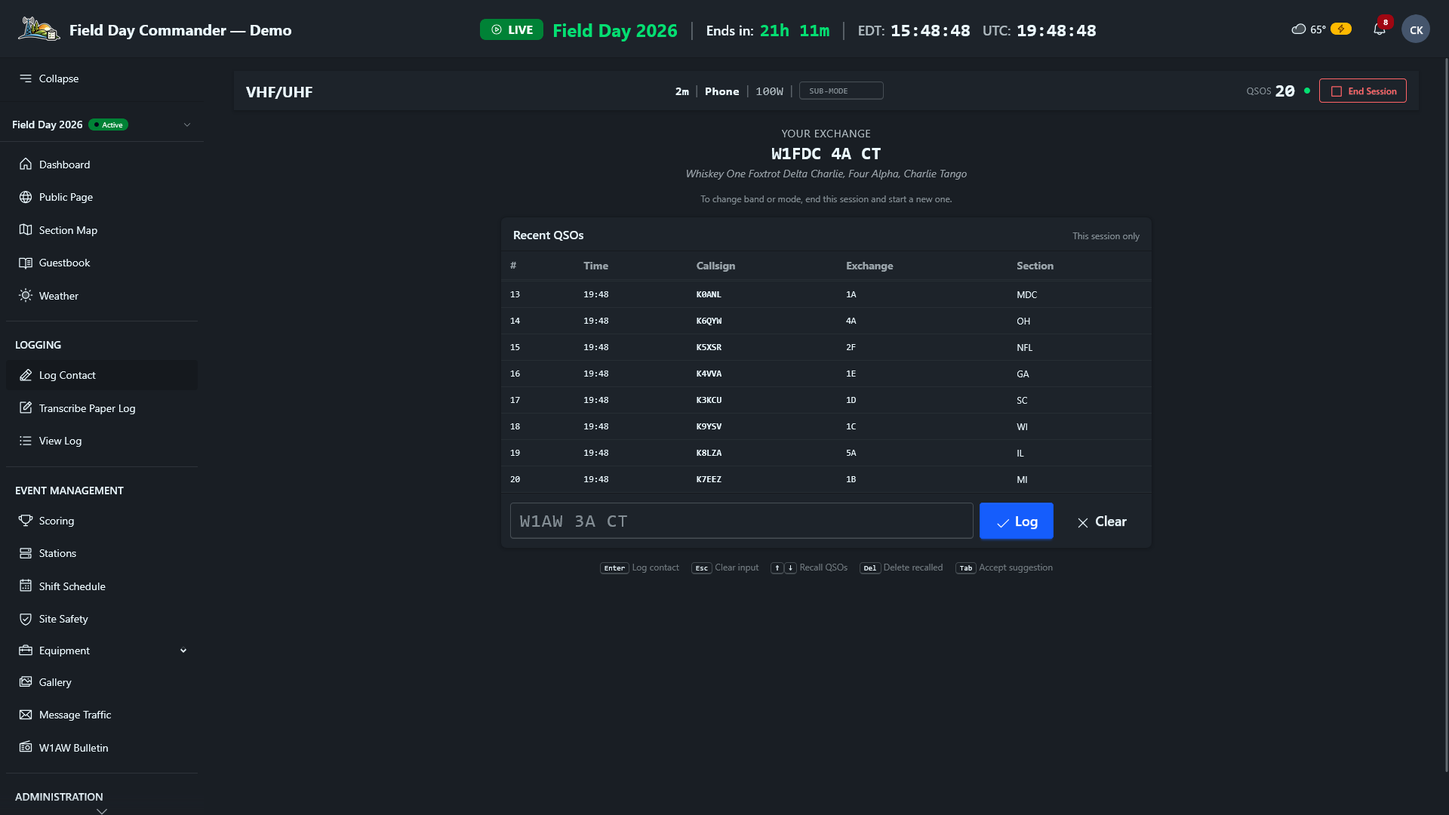
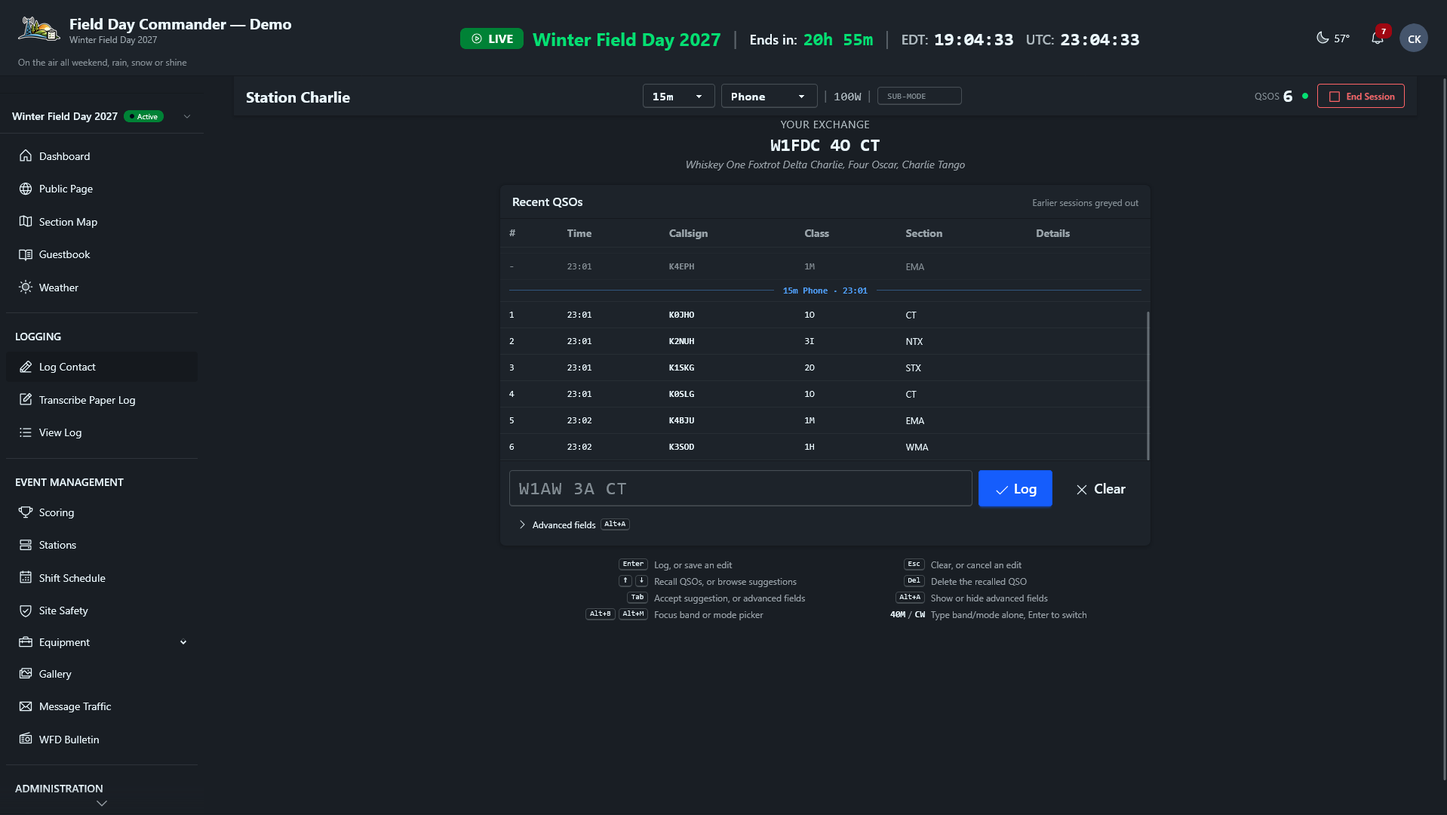
docs: cover band/mode switching and advanced fields, drop screenshot captions
Update the reference, multi-station, GOTA, external loggers and features
pages for the 26.10.13 logging screen: band and mode pickers instead of
ending the session, advanced fields, off-band switching, earlier-session
contacts, and the fields kept from external loggers and exports. Replace
the Log Contact screenshot, and remove figcaptions site-wide.

Claude-Session: https://claude.ai/code/session_01Pm6qp4PJTgecde6eG2aYAF

diff --git a/docs/fd-commander-docs.html b/docs/fd-commander-docs.html
@@ -1073,19 +1073,19 @@
     <p>Operators log contacts under <strong>Logging &gt; Log Contact</strong>. The station selection screen shows every station with its current status, the current operator's callsign, active band and mode, and running QSO count. An available station has a <strong>Select Station</strong> button. A station with an open session but no recent contacts shows as idle with a <strong>Take Over</strong> button, and a busy one shows <strong>In Use</strong>. A station that's been <a href="#stations">marked unavailable</a> shows "Down" with the reason, and its button is disabled. To set up several stations logging into the shared log over your LAN, see the <a href="how-to/multi-station-logging.html">Multi-Station Logging how-to</a>.</p>
 
     <h3>Starting a Session</h3>
-    <p>After selecting a station, you choose the band, mode, and power in watts before the logging interface opens. Band and mode are locked for the duration of the session. To change them you must end the session and start a new one. The rules allow only one transmitter per band and mode at a time, so if another station already has an active session on the same band and mode, <strong>Start Session</strong> won't start a new one and names the station that's using it. GOTA stations are the exception. Once a session is running, the logging header rechecks every 30 seconds and shows a warning if another station has since landed on the same band and mode. For GOTA stations, there's an additional option to mark the session as supervised (GOTA Coach present), which enables the 100-point coach bonus if 10 or more contacts are supervised. On a <a href="#station-mode">station-mode</a> browser, the list is skipped and setup opens for that browser's station.</p>
+    <p>After selecting a station, you choose the band, mode, and power in watts before the logging interface opens. The session bar has band and mode pickers for switching without leaving the logging screen. A switch ends the current session and starts a new one on the same station with the same power. Switching is refused while offline, if the station is unavailable, or if another non-GOTA station already uses that band and mode. GOTA stations are exempt from the conflict check. The rules allow only one transmitter per band and mode at a time, so if another station already has an active session on the same band and mode, <strong>Start Session</strong> won't start a new one and names the station that's using it. GOTA stations are the exception. Once a session is running, the logging header rechecks every 30 seconds and shows a warning if another station has since landed on the same band and mode. For GOTA stations, there's an additional option to mark the session as supervised (GOTA Coach present), which enables the 100-point coach bonus if 10 or more contacts are supervised. On a <a href="#station-mode">station-mode</a> browser, the list is skipped and setup opens for that browser's station.</p>
 
     <h3>Making Contacts</h3>
-    <p>The logging interface shows a sticky bar at the top with the station name, band, mode, power, and a live QSO counter. Next to the mode is an optional <strong>Sub-mode</strong> field for the specific flavor you're running (USB, FT8, RTTY, SSTV, and so on). It stays set between contacts. The entry field accepts the full exchange in one shot (callsign, class, section) with autocomplete suggestions as you type. Hit Enter to log.</p>
+    <p>The logging interface shows a sticky bar at the top with the station name, band, mode, power, and a live QSO counter. Next to the mode is an optional <strong>Sub-mode</strong> field for the specific flavor you're running (USB, FT8, RTTY, SSTV, and so on). It stays set between contacts. The entry field accepts the full exchange in one shot (callsign, class, section) with autocomplete suggestions as you type. Hit Enter to log. Below 1280px wide, the session bar uses two rows, with station, power, QSOs, and <strong>End Session</strong> above the band, mode, and sub-mode controls. <strong>End Session</strong> opens an in-app confirmation dialog. Open <strong>Advanced fields</strong> below the exchange box for <strong>Freq (MHz)</strong>, <strong>RST sent</strong>, <strong>RST rcvd</strong>, <strong>Grid</strong>, <strong>Name</strong>, and <strong>Notes</strong>. Alt+A toggles the panel, and this device remembers the choice. With it open, Tab from the exchange box moves through the fields in that order. Shift+Tab from <strong>Freq (MHz)</strong> returns to the exchange box. Enter logs or saves a recalled edit, and Esc returns to the exchange box. Frequency stays filled between contacts and across a switch if it fits the new band. The other fields clear after each contact. Frequency, reports, grid, and name appear in <strong>Details</strong>, or on the contact card line on phones. Up-arrow recall loads the advanced fields for editing too. A frequency on another band blocks logging and offers a button such as <strong>Switch to 40m</strong>. Enter switches and logs the entry, including its advanced fields. If validation fails on the new band, the entry stays with an error. Esc returns without switching.</p>
 
     <p>Dupe checks run in real time against every contact logged by every station, so you'll see an immediate warning if the callsign has already been worked on the same band and mode. You'll also get a warning if the callsign belongs to one of your own participants (the event callsign, the GOTA callsign, or anyone operating or signed up for a shift), since contacts with your own people don't count. Neither warning blocks the contact. A class from the wrong rulebook does: Field Day events accept classes A through F and Winter Field Day events accept H, I, O, and M, and anything else is rejected with "Class X is not valid for this event." If a contact fails to sync, it appears in a failed contacts dropdown in the header with a retry button.</p>
 
     <p>On a desktop screen, a <strong>Recent QSOs</strong> list appears above the entry field. It shows this session's contacts, oldest at the top, numbered from 1, and scrolls to the newest as you log. Click a row (or arrow to it) to pull that contact back up for editing.</p>
 
-    <p>All contacts go into a shared database, and Laravel Reverb pushes each new one over WebSocket to every connected browser. The scoring page, section map, and dashboard widgets all reflect new contacts instantly.</p>
+    <p>Use Alt+B or Alt+M to focus the band or mode picker, arrow keys to choose, Enter to switch, and Esc to cancel. Mouse or touch selections switch immediately. Typing a band or mode alone in the exchange box and pressing Enter also switches: "40M" or "40", "CW", "PH" or "SSB", "DIG", or a pair such as "20M PH". After a switch, up to 20 recent contacts from the chain of earlier sessions appear greyed out and read-only, under dividers such as "40m Phone · 21:52". The current session divider is highlighted. Earlier contacts cannot be recalled, edited, or deleted here. Use <strong>Logging &gt; View Log</strong> to edit or delete them. Starting fresh after <strong>End Session</strong> or from <strong>Station Select</strong> shows an empty log. Contacts waiting to sync keep their original session when you switch. All contacts go into a shared database, and Laravel Reverb pushes each new one over WebSocket to every connected browser. The scoring page, section map, and dashboard widgets all reflect new contacts instantly.</p>
 
     <h3>GOTA Operator Tracking</h3>
-    <p>On a GOTA station, the logging interface shows additional fields to identify the operator making the contact: search for a registered user by name or callsign, or manually enter a first name, last name, and callsign for unregistered visitors. This attaches the GOTA operator to each contact for reporting purposes. A GOTA contact can't be logged until a GOTA operator is entered, either a linked user or a first and last name. The same rule applies to paper log transcription for the GOTA station. Contacts that reach the GOTA station from an external logger or an ADIF import count as GOTA contacts, but they aren't tied to a GOTA operator. For setting up and scoring the GOTA station, see the <a href="how-to/gota-station.html">GOTA Station how-to</a>.</p>
+    <p>On a GOTA station, the logging interface shows additional fields to identify the operator making the contact: search for a registered user by name or callsign, or manually enter a first name, last name, and callsign for unregistered visitors. This attaches the GOTA operator to each contact for reporting purposes. <strong>GOTA Operator</strong> and the session's <strong>Supervised Session (GOTA Coach present)</strong> setting carry over through a band or mode switch. The operator does not carry over into a fresh session. A GOTA contact can't be logged until a GOTA operator is entered, either a linked user or a first and last name. The same rule applies to paper log transcription for the GOTA station. Contacts that reach the GOTA station from an external logger or an ADIF import count as GOTA contacts, but they aren't tied to a GOTA operator. For setting up and scoring the GOTA station, see the <a href="how-to/gota-station.html">GOTA Station how-to</a>.</p>
 
     <h3>Browsing the Logbook</h3>
     <p>Go to <strong>Logging &gt; View Log</strong> to open the Logbook Browser. Stats at the top show running totals: total QSOs, total points, unique sections worked, QSOs by mode, and QSOs by band. Below that, a full set of filters lets you slice the log by band, mode, station, logger, ARRL section, callsign, time range, duplicate status (all, exclude dupes, dupes only), and whether the contact was transcribed from paper. The contact table shows QSO time (UTC), callsign, band, mode (with the sub-mode, like "Digital · FT8"), class, section, points, station, and the logger who entered it. On Winter Field Day 2027 events, contacts that earn nothing get a red <strong>no credit</strong> badge, and hovering it says why (see <a href="#winter-field-day">Winter Field Day</a>). Users who can edit contacts can select rows and use <strong>Change Logger</strong> or <strong>Delete</strong> on all of them at once. Use the <strong>Export CSV</strong> button to download the filtered log.</p>
@@ -1100,7 +1100,7 @@
     <h2 id="external-loggers">External Logger Integration</h2>
     <p>Field Day Commander can receive contacts from external software in real time over UDP, and it can import ADIF files after the fact. This means operators running N1MM Logger+, digital-mode programs like WSJT-X and fldigi, or any other program that outputs ADIF don't need to double-log their contacts. That software handles the radio side and Field Day Commander handles scoring, deduplication, and Cabrillo export. All of this is optional: stations without external software log directly in Field Day Commander.</p>
 
-    <p>All listener settings are found under <strong>Logging &gt; External Loggers</strong>. Each listener can be enabled or disabled independently, and the UDP port is configurable.</p>
+    <p>Contacts from external loggers keep frequency, sent and received reports, grid, name, and comment when supplied. Frequency, reports, grid, and name appear in <strong>Details</strong>, or on the card line on phones. These fields are exported like browser-logged fields. ADIF-based loggers also preserve other record fields for ADIF export. All listener settings are found under <strong>Logging &gt; External Loggers</strong>. Each listener can be enabled or disabled independently, and the UDP port is configurable.</p>
 
     <div class="callout warning">
       <div class="callout-title">Security Notice</div>
@@ -1154,7 +1154,7 @@
       <li><strong>Step 2: Map Fields.</strong> If the ADIF file contains station identifiers that don't match your configured stations, you'll see them listed under "Unmapped Stations" with a dropdown to assign each one to an event station.</li>
       <li><strong>Step 3: Review &amp; Import.</strong> Every record is shown in a table with its status: New, Merge Candidate, Skipped, or Invalid. Records outside the event time window are flagged as invalid with an explanation. You can skip individual records before importing. A summary at the top shows counts for each category.</li>
     </ul>
-    <p>The import is non-destructive. You review everything before any contacts are written to the database, and invalid records must be resolved (skipped or fixed) before the import can proceed.</p>
+    <p>ADIF import keeps frequency, reports, grid, name, and comment, plus other record fields for ADIF export, including <code>MY_GRIDSQUARE</code>, <code>TX_PWR</code>, <code>QSO_DATE_OFF</code>, <code>TIME_OFF</code>, and <code>APP_</code> fields. Merging into an existing contact fills only empty fields. The import is non-destructive. You review everything before any contacts are written to the database, and invalid records must be resolved (skipped or fixed) before the import can proceed.</p>
 
     <p>Every listener and the import record the ADIF sub-mode (FT8, USB, and so on) along with the mode, and they apply the event's rulebook the same way live logging does. On a Winter Field Day 2027 event that means WSJT-mode and satellite contacts come in with no credit.</p>
 
@@ -1400,10 +1400,10 @@
     <p>When the event wraps up, go to <strong>Reports</strong> in the Administration section of the sidebar. Event managers and admins (anyone with view-reports) can open it. The <strong>Export &amp; Download</strong> cards depend on the event type: every event gets Cabrillo Log, ADIF Log, and Logbook CSV, plus Submission Sheet for Field Day or Winter Field Day Summary (PDF) for Winter Field Day. Duplicates and no-credit contacts are left out of the Cabrillo and ADIF files, and contacts you transcribed from paper are included. For a step-by-step walkthrough, see <a href="how-to/submit-field-day-entry.html">Submit Your Field Day Entry</a>.</p>
 
     <h3>Cabrillo Log</h3>
-    <p>Field Day Commander pulls together every QSO across all stations and writes a Cabrillo file in the format your event needs. For Field Day, that's the ARRL format with your callsign, class, section, category lines, claimed score, and every contact, saved as <code>CALLSIGN-YEAR-field-day.log</code> and ready to upload to the <a href="https://field-day.arrl.org/" target="_blank">ARRL Field Day submission page</a>. For Winter Field Day, it's the WFDA format (contest WFD, your location, power category, operators, and exchange), saved as <code>CALLSIGN.log</code> as the WFDA asks, for upload at <a href="https://winterfieldday.org/" target="_blank">winterfieldday.org</a>. Bands above 1.2 GHz use the Cabrillo GHz designators (2.3G, 10G, and so on).</p>
+    <p>Field Day Commander pulls together every QSO across all stations and writes a Cabrillo file in the format your event needs. For Field Day, that's the ARRL format with your callsign, class, section, category lines, claimed score, and every contact, saved as <code>CALLSIGN-YEAR-field-day.log</code> and ready to upload to the <a href="https://field-day.arrl.org/" target="_blank">ARRL Field Day submission page</a>. For Winter Field Day, it's the WFDA format (contest WFD, your location, power category, operators, and exchange), saved as <code>CALLSIGN.log</code> as the WFDA asks, for upload at <a href="https://winterfieldday.org/" target="_blank">winterfieldday.org</a>. Below 1 GHz, QSO lines use the logged frequency in kHz when available, otherwise the band frequency. Bands above 1.2 GHz use the Cabrillo GHz designators (2.3G, 10G, and so on).</p>
 
     <h3>ADIF Log</h3>
-    <p>Downloads an ADIF 3.1.4 file (<code>CALLSIGN.adi</code>) of every credited, non-duplicate contact, with band, mode, sub-mode, class, section, station callsign, and operator. Use it to import the log into other logging software.</p>
+    <p>Downloads an ADIF 3.1.4 file (<code>CALLSIGN.adi</code>) of every credited, non-duplicate contact, with band, mode, sub-mode, class, section, station callsign, and operator. When logged, frequency, reports, grid, name, and notes are included as <code>FREQ</code>, <code>RST_SENT</code>, <code>RST_RCVD</code>, <code>GRIDSQUARE</code>, <code>NAME</code>, and <code>COMMENT</code>. Other preserved ADIF fields are included too. Values held in Field Day Commander take precedence over the original record. Reports such as "5NN" that do not fit the app's fields are preserved for export. Use it to import the log into other logging software.</p>
 
     <h3>ARRL Submission Sheet</h3>
     <p>Field Day events only. Downloads a PDF formatted to the official ARRL Field Day submission sheet. It has your entry information, power sources, bonus claims, claimed score, and a band and mode breakdown, plus a GOTA page if you ran a GOTA station. If you saved a W1AW bulletin copy, it gets its own page. Useful as a backup record even if you submit electronically.</p>

diff --git a/docs/fd-commander-features.html b/docs/fd-commander-features.html
@@ -259,7 +259,7 @@
           <li><span class="check">&#10003;</span> Event readiness dashboard to see what's done and what's left at a glance</li>
         </ul>
       </div>
-      <figure class="screenshot"><a href="screenshots/setup-checklist-dark.png"><img src="screenshots/setup-checklist-dark.png" alt="Event setup checklist showing readiness tasks" loading="lazy"></a><figcaption>Review event setup tasks before the first contact.</figcaption></figure>
+      <figure class="screenshot"><a href="screenshots/setup-checklist-dark.png"><img src="screenshots/setup-checklist-dark.png" alt="Event setup checklist showing readiness tasks" loading="lazy"></a></figure>
     </div>
 
     <div class="feature-deep reverse" id="equipment">
@@ -274,7 +274,7 @@
           <li><span class="check">&#10003;</span> Assign gear to specific stations before the event</li>
         </ul>
       </div>
-      <figure class="screenshot"><a href="screenshots/equipment-dashboard-dark.png"><img src="screenshots/equipment-dashboard-dark.png" alt="Equipment dashboard showing event gear" loading="lazy"></a><figcaption>Keep equipment planning alongside station and volunteer planning.</figcaption></figure>
+      <figure class="screenshot"><a href="screenshots/equipment-dashboard-dark.png"><img src="screenshots/equipment-dashboard-dark.png" alt="Equipment dashboard showing event gear" loading="lazy"></a></figure>
     </div>
 
     <div class="feature-deep" id="scheduling">
@@ -291,7 +291,7 @@
           <li><span class="check">&#10003;</span> Mark everyone on an ended shift as worked in one click, for accurate volunteer hours</li>
         </ul>
       </div>
-      <figure class="screenshot"><a href="screenshots/shift-dashboard-dark.png"><img src="screenshots/shift-dashboard-dark.png" alt="Volunteer shift dashboard with coverage timeline" loading="lazy"></a><figcaption>Spot coverage gaps while there is still time to fill them.</figcaption></figure>
+      <figure class="screenshot"><a href="screenshots/shift-dashboard-dark.png"><img src="screenshots/shift-dashboard-dark.png" alt="Volunteer shift dashboard with coverage timeline" loading="lazy"></a></figure>
     </div>
 </section>
 
@@ -305,11 +305,12 @@
           <li><span class="check">&#10003;</span> Dupes (same call, band, and mode) flagged instantly across every station</li>
           <li><span class="check">&#10003;</span> Section and exchange validation catches typos before they're saved</li>
           <li><span class="check">&#10003;</span> One station per band and mode, enforced when a session starts, plus a warning if someone works one of your own operators</li>
+          <li><span class="check">&#10003;</span> Change band or mode from the logging screen, with station conflict checks</li>
           <li><span class="check">&#10003;</span> Cabrillo export for ARRL Field Day or Winter Field Day, plus an ADIF log you can load into the club&#39;s logging software</li>
-          <li><span class="check">&#10003;</span> Single-field entry flow designed for speed: type the exchange, hit Enter, done</li>
+          <li><span class="check">&#10003;</span> Type the exchange and hit Enter, with optional advanced fields for frequency, reports, grid, name, and notes</li>
         </ul>
       </div>
-      <figure class="screenshot"><a href="screenshots/log-contact-dark.png"><img src="screenshots/log-contact-dark.png" alt="Contact logging screen with exchange entry and recent contacts" loading="lazy"></a><figcaption>Operators log into the same event from their station browsers.</figcaption></figure>
+      <figure class="screenshot"><a href="screenshots/log-contact-dark.png"><img src="screenshots/log-contact-dark.png" alt="Contact logging screen with exchange entry and recent contacts" loading="lazy"></a></figure>
     </div>
 
     <div class="feature-deep" id="station-mode">
@@ -451,7 +452,7 @@
 </section>
 
 <section class="feature-group" aria-labelledby="progress"><header class="feature-group-heading"><h2 id="progress">Follow the progress</h2><p>Keep the whole team informed, from contacts and traffic to the live score.</p></header>
-<div class="feature-deep reverse" id="big-screen"><div class="feature-deep-text"><span class="feature-tag teal">Event dashboard</span><h3>A shared view of the club’s progress</h3><p>Put the dashboard on a large screen so operators, volunteers, and visitors can follow the event as contacts come in.</p><ul class="feature-bullets"><li><span class="check">&#10003;</span> Follow the live score and QSO rate</li><li><span class="check">&#10003;</span> See sections worked and band activity</li><li><span class="check">&#10003;</span> Keep time remaining in view</li></ul></div><figure class="screenshot"><a href="screenshots/tv_dashboard.jpg"><img src="screenshots/tv_dashboard.jpg" alt="Wall-mounted TV showing score, QSO rate, sections worked, and event time remaining" loading="lazy"></a><figcaption>The event dashboard displayed on a TV at the site.</figcaption></figure></div>
+<div class="feature-deep reverse" id="big-screen"><div class="feature-deep-text"><span class="feature-tag teal">Event dashboard</span><h3>A shared view of the club’s progress</h3><p>Put the dashboard on a large screen so operators, volunteers, and visitors can follow the event as contacts come in.</p><ul class="feature-bullets"><li><span class="check">&#10003;</span> Follow the live score and QSO rate</li><li><span class="check">&#10003;</span> See sections worked and band activity</li><li><span class="check">&#10003;</span> Keep time remaining in view</li></ul></div><figure class="screenshot"><a href="screenshots/tv_dashboard.jpg"><img src="screenshots/tv_dashboard.jpg" alt="Wall-mounted TV showing score, QSO rate, sections worked, and event time remaining" loading="lazy"></a></figure></div>
 
     <div class="feature-deep" id="section-map">
       <div class="feature-deep-text">
@@ -467,10 +468,10 @@
           <li><span class="check">&#10003;</span> Updates in real time as contacts are logged</li>
         </ul>
       </div>
-      <figure class="screenshot"><a href="screenshots/section-map-dark.png"><img src="screenshots/section-map-dark.png" alt="Section map showing worked sections" loading="lazy"></a><figcaption>Explore the sections worked across your shared log.</figcaption></figure>
+      <figure class="screenshot"><a href="screenshots/section-map-dark.png"><img src="screenshots/section-map-dark.png" alt="Section map showing worked sections" loading="lazy"></a></figure>
     </div>
 
-<div class="feature-deep reverse" id="message-traffic"><div class="feature-deep-text"><span class="feature-tag teal">Traffic &amp; bulletins</span><h3>NTS messages and bulletin records</h3><p>Keep message traffic and supporting records alongside the event log, so the team can follow progress and review bonus claims.</p><ul class="feature-bullets"><li><span class="check">&#10003;</span> Record and follow NTS radiograms</li><li><span class="check">&#10003;</span> Track the Section Manager or Section Emergency Coordinator message separately</li><li><span class="check">&#10003;</span> Save your over-the-air W1AW bulletin copy for submission records</li></ul><p><a href="how-to/bonuses-objectives.html">Explore bonuses and objectives &rarr;</a></p></div><figure class="screenshot"><a href="screenshots/message-traffic-dark.png"><img src="screenshots/message-traffic-dark.png" alt="Message traffic screen for NTS radiograms and message-related bonuses" loading="lazy"></a><figcaption>Keep traffic records available to the people reviewing bonus claims.</figcaption></figure></div>
+<div class="feature-deep reverse" id="message-traffic"><div class="feature-deep-text"><span class="feature-tag teal">Traffic &amp; bulletins</span><h3>NTS messages and bulletin records</h3><p>Keep message traffic and supporting records alongside the event log, so the team can follow progress and review bonus claims.</p><ul class="feature-bullets"><li><span class="check">&#10003;</span> Record and follow NTS radiograms</li><li><span class="check">&#10003;</span> Track the Section Manager or Section Emergency Coordinator message separately</li><li><span class="check">&#10003;</span> Save your over-the-air W1AW bulletin copy for submission records</li></ul><p><a href="how-to/bonuses-objectives.html">Explore bonuses and objectives &rarr;</a></p></div><figure class="screenshot"><a href="screenshots/message-traffic-dark.png"><img src="screenshots/message-traffic-dark.png" alt="Message traffic screen for NTS radiograms and message-related bonuses" loading="lazy"></a></figure></div>
 
     <div class="feature-deep" id="scoring">
       <div class="feature-deep-text">
@@ -485,7 +486,7 @@
           <li><span class="check">&#10003;</span> Everyone sees the same live score, on every screen</li>
         </ul>
       </div>
-      <figure class="screenshot"><a href="screenshots/scoring-dark.png"><img src="screenshots/scoring-dark.png" alt="Event scoring screen with score and bonus breakdowns" loading="lazy"></a><figcaption>Review the score and the claims that contribute to it.</figcaption></figure>
+      <figure class="screenshot"><a href="screenshots/scoring-dark.png"><img src="screenshots/scoring-dark.png" alt="Event scoring screen with score and bonus breakdowns" loading="lazy"></a></figure>
     </div>
 
     <div class="feature-deep reverse" id="guestbook">
@@ -612,7 +613,7 @@
 </section>
 
 <section class="feature-group" aria-labelledby="submit"><header class="feature-group-heading"><h2 id="submit">Finish and submit</h2><p>Review the entry and keep a record of the weekend’s work.</p></header>
-<div class="feature-deep reverse" id="entry"><div class="feature-deep-text"><span class="feature-tag teal">Reports &amp; exports</span><h3>Prepare the entry from your shared log</h3><p>Review the score and bonus claims together, then download the records your club needs to prepare its entry.</p><ul class="feature-bullets"><li><span class="check">&#10003;</span> Export Cabrillo for the event entry</li><li><span class="check">&#10003;</span> Export ADIF for the club log or CSV for analysis</li><li><span class="check">&#10003;</span> Download submission summaries, including the Winter Field Day Event Summary PDF</li><li><span class="check">&#10003;</span> Keep event photos and supporting records for the club’s review</li></ul><p><a href="how-to/submit-field-day-entry.html">Follow the Field Day submission walkthrough &rarr;</a></p></div><figure class="screenshot"><a href="screenshots/manual-bonus-claims-dark.png"><img src="screenshots/manual-bonus-claims-dark.png" alt="Manual bonus claims screen for reviewing event claims" loading="lazy"></a><figcaption>Review claims and supporting records before preparing the entry.</figcaption></figure></div>
+<div class="feature-deep reverse" id="entry"><div class="feature-deep-text"><span class="feature-tag teal">Reports &amp; exports</span><h3>Prepare the entry from your shared log</h3><p>Review the score and bonus claims together, then download the records your club needs to prepare its entry.</p><ul class="feature-bullets"><li><span class="check">&#10003;</span> Export Cabrillo for the event entry</li><li><span class="check">&#10003;</span> Export ADIF for the club log or CSV for analysis</li><li><span class="check">&#10003;</span> Download submission summaries, including the Winter Field Day Event Summary PDF</li><li><span class="check">&#10003;</span> Keep event photos and supporting records for the club’s review</li></ul><p><a href="how-to/submit-field-day-entry.html">Follow the Field Day submission walkthrough &rarr;</a></p></div><figure class="screenshot"><a href="screenshots/manual-bonus-claims-dark.png"><img src="screenshots/manual-bonus-claims-dark.png" alt="Manual bonus claims screen for reviewing event claims" loading="lazy"></a></figure></div>
 
     <div class="feature-deep" id="photos">
       <div class="feature-deep-text">

diff --git a/docs/how-to/multi-station-logging.html b/docs/how-to/multi-station-logging.html
@@ -245,7 +245,7 @@
         <p><span class="step-number">4</span> When your turn is over, click the red <strong>Sign Out</strong> button in the top-right corner. The callsign screen comes back up for the next operator.</p>
       </div>
 
-      <p>The band and mode stay fixed for the session. To QSY, end the session, type your callsign again, and pick the new band or mode.</p>
+      <p>To QSY, use the band and mode pickers in the session bar. You should see the new band and mode after the switch, on the same station and power. Alt+B or Alt+M focuses a picker. Choose with the arrow keys, press Enter to switch, or Esc to cancel. You can also type "40M", "40", "CW", "PH", "SSB", "DIG", or "20M PH" alone in the exchange box and press Enter. Reconnect before switching if you are offline. An unavailable station or a band and mode already used by another non-GOTA station will block the switch. GOTA stations are exempt from that conflict check.</p>
 
       <p>If an operator walks away without ending their session, the idle timeout will end it for them. <a href="station-mode.html">Set Up Station Mode</a> explains how it works.</p>
 
@@ -260,17 +260,17 @@
       <p>Type the whole exchange into the entry field, separated by spaces, like <code>W1AW 3A CT</code>, and press Enter or click <strong>Log</strong>. The exchange is checked before it's logged, so a bad section or a class from the wrong event will show an error instead of going into the log.</p>
 
       <figure class="screenshot">
-        <a href="../screenshots/log-contact-dark.png"><img src="../screenshots/log-contact-dark.png" alt="The Field Day Commander logging screen for the VHF/UHF station on 2m Phone at 100 W, showing 20 QSOs, the club's exchange W1FDC 4A CT with phonetics, a numbered Recent QSOs list of contacts 13 through 20, the exchange entry field with Log and Clear buttons, and keyboard hints for Enter, Esc, the arrow keys, Del, and Tab" loading="lazy" width="1920" height="1080"></a>
-        <figcaption>A session on the VHF/UHF station. The entry field takes the whole exchange at once, and the hints underneath list the keyboard shortcuts.</figcaption>
+        <a href="../screenshots/log-contact-dark.png"><img src="../screenshots/log-contact-dark.png" alt="Winter Field Day 2027 logging screen for Station Charlie on 15m Phone at 100W, showing six QSOs, the exchange W1FDC 4O CT with phonetics, a greyed earlier contact above the 15m Phone session divider, six numbered contacts below it, the exchange entry field with Log and Clear buttons, a collapsed Advanced fields toggle, and keyboard hints" loading="lazy" width="1918" height="1080"></a>
       </figure>
 
       <p>A few things on this screen make a long run easier:</p>
 
       <ul>
         <li><strong>Your Exchange</strong> at the top shows what to send, spelled out phonetically for phone.</li>
-        <li><strong>Sub-mode</strong>, next to the power, is optional. Type what you're running, such as USB, FM, or FT8, and it stays set between contacts.</li>
+        <li><strong>Sub-mode</strong>, beside the band and mode pickers, is optional. Type what you're running, such as USB, FM, or FT8, and it stays set between contacts.</li>
+        <li>Open <strong>Advanced fields</strong> below the exchange box, or press Alt+A, to enter <strong>Freq (MHz)</strong>, <strong>RST sent</strong>, <strong>RST rcvd</strong>, <strong>Grid</strong>, <strong>Name</strong>, and <strong>Notes</strong>. Tab moves through the fields, Enter logs, and Esc returns to the exchange box. The panel remembers whether you left it open on this device. Frequency stays filled between contacts and through a switch if it fits the new band. The other fields clear. You should see frequency, reports, grid, and name in <strong>Details</strong>, or on the card line on a phone. If the frequency is on another band, logging stops and offers a button such as <strong>Switch to 40m</strong>. Press Enter to switch and log, or Esc to go back.</li>
         <li><strong>Suggestions</strong> appear after two characters, listing callsigns your club has already worked on other bands or modes, with their exchange. Arrow down to one and press Tab to fill it in.</li>
-        <li><strong>Recent QSOs</strong>, on a wider screen, lists this session's contacts. To fix one, press the up arrow in an empty entry field (or click the row), then save, delete, or cancel.</li>
+        <li><strong>Recent QSOs</strong>, on a wider screen, lists this session's contacts. After a band or mode switch, up to 20 contacts from earlier sessions in the switch chain appear greyed out under band, mode, and time dividers. Those contacts are read-only here. Open <strong>Logging &gt; View Log</strong> to edit or delete them. To fix a contact in the current session, press the up arrow in an empty entry field (or click the row), then save, delete, or cancel. Recall loads its advanced fields too.</li>
       </ul>
 
       <h2>How Dupe Checking Works Across Stations</h2>

diff --git a/docs/how-to/first-event.html b/docs/how-to/first-event.html
@@ -238,7 +238,6 @@
 
       <figure class="screenshot">
         <a href="../screenshots/no-active-event-dark.png"><img src="../screenshots/no-active-event-dark.png" alt="The Field Day Commander dashboard with no event yet, showing No Active Event and a Create Event button" loading="lazy" width="1920" height="1080"></a>
-        <figcaption>Right after setup, the dashboard has no event yet. Start with Create Event.</figcaption>
       </figure>
 
       <h3>Event Information</h3>
@@ -320,7 +319,6 @@
 
       <figure class="screenshot">
         <a href="../screenshots/equipment-dashboard-dark.png"><img src="../screenshots/equipment-dashboard-dark.png" alt="The Equipment Dashboard showing 30 items: 2 committed, 28 delivered, none returned or with issues, with each item's owner, status, and assigned station" loading="lazy" width="1920" height="1080"></a>
-        <figcaption>The Equipment Dashboard during an event. Once gear is delivered, you can see which station it went to.</figcaption>
       </figure>
 
       <div class="callout info">
@@ -386,7 +384,6 @@
 
       <figure class="screenshot">
         <a href="../screenshots/shift-dashboard-dark.png"><img src="../screenshots/shift-dashboard-dark.png" alt="Field Day Commander Shift Dashboard with a timeline of shifts for each role across Saturday and Sunday, a 73% coverage gauge with filled and open slot counts, and a Coverage Gaps list showing two Operator shifts" loading="lazy" width="1920" height="1080"></a>
-        <figcaption>The Shift Dashboard. Coverage Gaps lists the shifts that still need people, like the Saturday night Operator slots here.</figcaption>
       </figure>
 
       <h2>Review the Safety Checklist</h2>
@@ -395,7 +392,6 @@
 
       <figure class="screenshot">
         <a href="../screenshots/site-safety-checklist-dark.png"><img src="../screenshots/site-safety-checklist-dark.png" alt="The Site Safety Checklist for a Class A event, 9 of 15 items complete, with checked items struck through and marked with who completed them and when" loading="lazy" width="1920" height="1080"></a>
-        <figcaption>A Class A checklist partway through setup. Each checked item records who completed it and when.</figcaption>
       </figure>
 
       <p>Only people assigned to a <strong>Safety Officer</strong> or <strong>Site Responsibilities</strong> shift can check items off, so make sure that shift exists and has a name on it. Everyone else can read the list.</p>
@@ -443,7 +439,6 @@
 
       <figure class="screenshot">
         <a href="../screenshots/setup-checklist-dark.png"><img src="../screenshots/setup-checklist-dark.png" alt="The dashboard for an upcoming Field Day event, showing a countdown and the Setup Checklist with Event configuration created checked and the other four items still to set up" loading="lazy" width="1920" height="1080"></a>
-        <figcaption>A new event's dashboard with one of five items done.</figcaption>
       </figure>
 
       <p>Items you haven't finished have a <strong>Set Up</strong> button that takes you to the page where you do it. Finished items switch to <strong>Review</strong>.</p>

diff --git a/docs/how-to/gota-station.html b/docs/how-to/gota-station.html
@@ -224,7 +224,7 @@
 
       <p>Under <strong>GOTA Station Options</strong>, turn on <strong>Supervised Session (GOTA Coach present)</strong> when a coach is supervising, then click <strong>Start Session</strong>. Only contacts from supervised sessions count toward the coach bonus.</p>
 
-      <p>You can't change this setting once the session starts. If a coach arrives partway through, end the session and start a new one with the toggle on.</p>
+      <p>Changing band or mode with the session bar pickers keeps this setting. You can't change it once the session starts. If a coach arrives partway through, end the session and start a new one with the toggle on.</p>
 
       <h2>Step 5: Enter Each GOTA Operator</h2>
 
@@ -235,7 +235,7 @@
         <li><strong>For a visitor</strong>, fill in <strong>First Name</strong> and <strong>Last Name</strong>, plus <strong>Callsign (optional)</strong> if they have one.</li>
       </ul>
 
-      <p>Enter the GOTA operator before they make their first contact. Field Day Commander won't log a GOTA contact with the panel empty. You'll see "Enter the GOTA operator in the GOTA Operator panel before logging." Each contact is credited to whoever is in the panel when it's logged, not to the coach. The operator stays set from one contact to the next. When someone new sits down, click <strong>Change</strong> next to a linked member, or type over the names.</p>
+      <p>Enter the GOTA operator before they make their first contact. Field Day Commander won't log a GOTA contact with the panel empty. You'll see "Enter the GOTA operator in the GOTA Operator panel before logging." Each contact is credited to whoever is in the panel when it's logged, not to the coach. The operator stays set from one contact to the next and through a band or mode switch using the session bar. After switching, you should still see the same operator in the panel. A fresh session does not carry the operator over. When someone new sits down, click <strong>Change</strong> next to a linked member, or type over the names.</p>
 
       <p>The names are worth getting right. The <strong>Submission Sheet</strong> on the Reports page has a GOTA page that lists each GOTA operator with their contacts by mode. A linked member whose profile is marked <strong>Youth (age 18 or younger)</strong> will also count toward the youth participation bonus.</p>
 

diff --git a/docs/index.html b/docs/index.html
@@ -556,7 +556,6 @@
 
     <figure class="screenshot hero-shot">
       <a href="screenshots/dashboard-dark.png"><img src="screenshots/dashboard-dark.png" alt="Field Day Commander dashboard during Field Day: total score 898, 52.5 QSOs per hour, 40 of 86 sections worked, a time-remaining countdown, and a chart of QSOs per band" width="1920" height="1080"></a>
-      <figcaption>One shared view of your club&#39;s effort, updated as every station logs contacts.</figcaption>
     </figure>
   </div>
 </section>
@@ -616,8 +615,7 @@
   <div class="container">
     <div class="big-screen-grid">
       <figure class="screenshot">
-        <a href="screenshots/log-contact-dark.png"><img src="screenshots/log-contact-dark.png" alt="Field Day Commander contact logging screen with exchange entry and recent contacts" width="1920" height="1080" loading="lazy"></a>
-        <figcaption>Log in the browser, with exchange validation and dupe checks across stations.</figcaption>
+        <a href="screenshots/log-contact-dark.png"><img src="screenshots/log-contact-dark.png" alt="Field Day Commander contact logging screen with exchange entry and recent contacts" width="1918" height="1080" loading="lazy"></a>
       </figure>
       <div>
         <div class="section-label rail-label">For the Operator</div>
@@ -656,7 +654,6 @@
         <p class="rail-subline">Keep the work beyond QSOs visible: radiograms, visitor sign-ins, GOTA activity, and bonus claims. See what&#39;s been earned and what still needs attention before the event ends.</p>
         <figure class="screenshot">
           <a href="screenshots/message-traffic-dark.png"><img src="screenshots/message-traffic-dark.png" alt="Field Day Commander Message Traffic screen for tracking NTS radiograms and message-related bonuses" width="1920" height="1080" loading="lazy"></a>
-          <figcaption>Keep message traffic and its contribution to your Field Day score together.</figcaption>
         </figure>
       </div>
       <ul class="rail-list" role="list">

diff --git a/docs/how-to/bonuses-objectives.html b/docs/how-to/bonuses-objectives.html
@@ -257,7 +257,6 @@
 
       <figure class="screenshot">
         <a href="../screenshots/events-list-view-details-dark.png"><img src="../screenshots/events-list-view-details-dark.png" alt="Field Day Commander Events page with the Actions menu open on Field Day 2026, showing View Details, Edit, Clone Event, and Delete" loading="lazy" width="1920" height="1080"></a>
-        <figcaption>The Actions menu on the Events page. View Details opens the event page with the claims card.</figcaption>
       </figure>
 
       <div class="step-box">
@@ -266,7 +265,6 @@
 
       <figure class="screenshot">
         <a href="../screenshots/manual-bonus-claims-dark.png"><img src="../screenshots/manual-bonus-claims-dark.png" alt="Manual Bonus Claims card on the event page, with checked bonuses showing their points and unchecked bonuses each showing a Notes box" loading="lazy" width="1920" height="1080"></a>
-        <figcaption>The Manual Bonus Claims card. Claimed bonuses show their points, and the rest each have a box for notes.</figcaption>
       </figure>
 
       <div class="step-box">
@@ -288,7 +286,6 @@
 
       <figure class="screenshot">
         <a href="../screenshots/scoring-dark.png"><img src="../screenshots/scoring-dark.png" alt="Field Day Commander Scoring page with QSO points, power multiplier, and a Bonus Points column listing each bonus with its status" loading="lazy" width="1920" height="1080"></a>
-        <figcaption>The Bonus Points column on the Scoring page. Anything still marked Unclaimed is worth a look.</figcaption>
       </figure>
 
       <p>Keep an eye on <strong>Corrections &amp; Notices</strong> at the bottom of the page too. It flags things like GOTA contacts logged without a GOTA station configured.</p>

diff --git a/docs/how-to/external-loggers.html b/docs/how-to/external-loggers.html
@@ -262,7 +262,7 @@
 
       <div class="badge-advanced">Logging &middot; Optional</div>
 
-      <p>Your operators already know their favorite programs, and there's no reason to make them give those up for the weekend. Field Day Commander can listen on the local network for contacts sent by N1MM Logger+, digital-mode programs like WSJT-X, JTDX, and fldigi, and anything else that sends ADIF over UDP. Each contact lands in the log a moment after the operator saves it, where it counts toward the score, gets checked for dupes, and shows up on the dashboards. This is optional: stations that don't run any of this software log in Field Day Commander's built-in logger with nothing to configure.</p>
+      <p>Your operators already know their favorite programs, and there's no reason to make them give those up for the weekend. Field Day Commander can listen on the local network for contacts sent by N1MM Logger+, digital-mode programs like WSJT-X, JTDX, and fldigi, and anything else that sends ADIF over UDP. Each contact lands in the log a moment after the operator saves it, where it counts toward the score, gets checked for dupes, and shows up on the dashboards. Frequency, reports, grid, name, and comment come through when supplied. Look for frequency, reports, grid, and name in <strong>Details</strong>, or on the contact card line on a phone. This is optional: stations that don't run any of this software log in Field Day Commander's built-in logger with nothing to configure.</p>
 
       <p>This guide walks through one logging PC from start to finish. Plan on about fifteen minutes for the first PC and a few minutes for each one after that.</p>
 

diff --git a/docs/how-to/safety-officer-checklist.html b/docs/how-to/safety-officer-checklist.html
@@ -221,7 +221,6 @@
 
       <figure class="screenshot">
         <a href="../screenshots/site-safety-checklist-dark.png"><img src="../screenshots/site-safety-checklist-dark.png" alt="Field Day Commander Site Safety Checklist page with completion badges and a list of safety items, some checked with the name and time of who completed them" loading="lazy" width="1920" height="1080"></a>
-        <figcaption>The Site Safety page. Each checked item shows who completed it and when.</figcaption>
       </figure>
 
       <p>As you check each item, Field Day Commander records who did it and when, and saves it right away. Use the notes box under an item to write down what you saw: "Two extinguishers, one by each generator" or "Coax crossings taped down at the food tent." The notes are what make the record useful later, both for the signed checklist and for next year's planning.</p>

diff --git a/docs/how-to/station-mode.html b/docs/how-to/station-mode.html
@@ -213,7 +213,6 @@
 
       <figure class="screenshot compact">
         <a href="../screenshots/station-card-dark.png"><img src="../screenshots/station-card-dark.png" alt="The Station Alpha card showing an Icom IC-7300 at 100W, 5 items assigned, Generator power, Station-Mode Browsers with None enrolled, a Use This Browser for Station Mode button, and Mark Unavailable, Edit, and delete buttons" loading="lazy" width="658" height="451"></a>
-        <figcaption>A station with no browsers bound yet. The button is under Station-Mode Browsers.</figcaption>
       </figure>
 
       <div class="step-box">

diff --git a/docs/how-to/submit-field-day-entry.html b/docs/how-to/submit-field-day-entry.html
@@ -232,7 +232,6 @@
 
       <figure class="screenshot">
         <a href="../screenshots/scoring-dark.png"><img src="../screenshots/scoring-dark.png" alt="Field Day Commander Scoring page with QSO points, power multiplier, and a Bonus Points column listing each bonus with its status" loading="lazy" width="1920" height="1080"></a>
-        <figcaption>The Scoring page. The bonus column and the notices underneath are the two places to check.</figcaption>
       </figure>
 
       <h2>Step 5: Download Your Files</h2>
